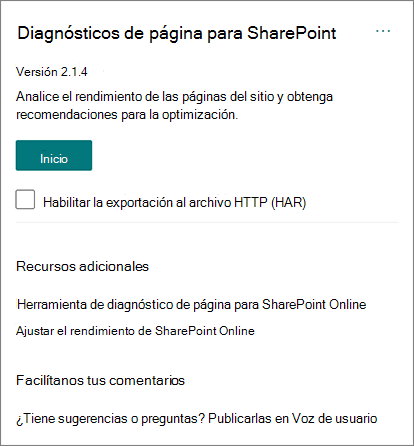
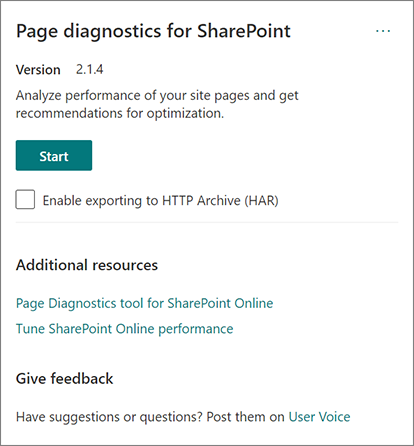
commit translated contents

diff --git a/microsoft-365/compliance/archive-android-archiver-data.md b/microsoft-365/compliance/archive-android-archiver-data.md
@@ -12,16 +12,16 @@ ms.service: O365-seccomp
 localization_priority: Normal
 ms.collection: M365-security-compliance
 description: Los administradores pueden configurar un conector de TeleMessage para importar y archivar SMS, MMS y llamadas de voz desde teléfonos móviles Android. Esto le permite archivar datos de orígenes de datos de terceros en Microsoft 365 para que pueda usar características de cumplimiento como retención legal, búsqueda de contenido y directivas de retención para administrar los datos de terceros de su organización.
-ms.openlocfilehash: 6a70d57c5728b5e69df09a523f865d7e8beb8130
-ms.sourcegitcommit: 50908a93554290ff1157b58d0a868a33e012513c
+ms.openlocfilehash: 6ef42c5e5fe1fe42ca88c1f464ee5321d1560a21679f933bc23ce4026b0605d2
+ms.sourcegitcommit: a1b66e1e80c25d14d67a9b46c79ec7245d88e045
 ms.translationtype: MT
 ms.contentlocale: es-ES
-ms.lasthandoff: 06/08/2021
-ms.locfileid: "52822231"
+ms.lasthandoff: 08/05/2021
+ms.locfileid: "53866761"
 ---
 # <a name="set-up-a-connector-to-archive-android-mobile-data"></a>Configurar un conector para archivar datos móviles de Android
 
-Use un conector de TeleMessage en el centro de cumplimiento de Microsoft 365 para importar y archivar archivos de SMS, MMS, llamadas de voz y registros de llamadas desde teléfonos móviles Android. Después de configurar y configurar un conector, se conecta a la cuenta de TeleMessage de la organización una vez al día e importa la comunicación móvil de los empleados con el Archivador Android de TeleMessage a los buzones de correo de Microsoft 365.
+Use un conector de TeleMessage en el Centro de cumplimiento de Microsoft 365 para importar y archivar SMS, MMS, llamadas de voz y registros de llamadas desde teléfonos móviles Android. Después de configurar y configurar un conector, se conecta a la cuenta de TeleMessage de la organización una vez al día e importa la comunicación móvil de los empleados con el Archivador Android de TeleMessage a los buzones de correo de Microsoft 365.
 
 Una vez que los datos de los teléfonos móviles Android se almacenan en buzones de usuario, puede aplicar Microsoft 365 características de cumplimiento como retención por juicio, búsqueda de contenido y directivas de retención Microsoft 365 a los datos del archivador android. Por ejemplo, puede buscar en la comunicación móvil de Archiver android mediante la búsqueda de contenido o asociar el buzón que contiene los datos del conector del archivador android con un custodio en Advanced eDiscovery caso. El uso de un conector de archivador de Android para importar y archivar datos en Microsoft 365 puede ayudar a su organización a cumplir con las directivas gubernamentales y reglamentarias.
 
@@ -33,9 +33,9 @@ En la siguiente introducción se explica el proceso de uso de un conector para a
 
 1. Su organización trabaja con TeleMessage para configurar un conector de archivador de Android. Para obtener más información, consulta [Archivador de Android](https://www.telemessage.com/office365-activation-for-android-archiver/).
 
-2. En tiempo real, SMS, MMS, llamadas de voz y registros de llamadas desde los teléfonos móviles Android de la organización se copian en el sitio de TeleMessage.
+2. En tiempo real, sms, MMS, llamadas de voz y registros de llamadas desde los teléfonos móviles Android de la organización se copian en el sitio de TeleMessage.
 
-3. El conector de Archivador de Android que crea en el centro de cumplimiento de Microsoft 365 se conecta al sitio de TeleMessage todos los días y transfiere los datos de Android de las 24 horas anteriores a una ubicación Azure Storage segura en la nube de Microsoft. El conector también convierte los datos de Android a un formato de mensaje de correo electrónico.
+3. El conector de Archivador de Android que cree en el Centro de cumplimiento de Microsoft 365 se conecta al sitio de TeleMessage todos los días y transfiere los datos de Android de las 24 horas anteriores a una ubicación Azure Storage segura en la nube de Microsoft. El conector también convierte los datos de Android a un formato de mensaje de correo electrónico.
 
 4. El conector importa los elementos de comunicación móvil al buzón de un usuario específico. Se crea una nueva carpeta denominada Archivador de Android en el buzón del usuario específico y los elementos se importan a él. El conector realiza la asignación mediante el valor de la *propiedad Dirección de correo* electrónico del usuario. Cada mensaje de correo electrónico contiene esta propiedad, que se rellena con la dirección de correo electrónico de cada participante del mensaje de correo electrónico. Además de la asignación automática  de usuarios mediante el valor de la propiedad Dirección de correo electrónico del usuario, también puede definir una asignación personalizada cargando un archivo de asignación CSV. Este archivo de asignación debe contener el número de teléfono móvil y la dirección Microsoft 365 buzón de correo correspondiente para cada usuario. Si habilita la asignación automática de usuarios y proporciona una asignación personalizada, por cada elemento de correo electrónico, el conector primero buscará el archivo de asignación personalizado. Si no encuentra un usuario Microsoft 365 válido que corresponda al número de móvil de un usuario, el conector usará la propiedad de dirección de correo electrónico del usuario del elemento de correo electrónico. Si el conector no encuentra un usuario Microsoft 365 válido en el archivo de asignación personalizado o en la propiedad *de* dirección de correo electrónico del usuario del elemento de correo electrónico, el elemento no se importará.
 
@@ -49,13 +49,13 @@ Algunos de los pasos de implementación necesarios para archivar datos de comuni
 
 - Instala y activa la aplicación Archiver Android de TeleMessage en los teléfonos móviles de tus empleados.
 
-- Al usuario que crea un conector de archivador de Android se le debe asignar el rol De importación de buzones de Exchange Online. Esto es necesario para agregar conectores en la **página Conectores de datos** del centro de Microsoft 365 cumplimiento. Este rol no está asignado a ningún grupo de roles de Exchange Online de forma predeterminada. Puede agregar el rol Exportación de importación de buzones al grupo de roles Administración de la organización en Exchange Online. O bien, puede crear un grupo de roles, asignar el rol Importación de buzones de correo Exportar y, a continuación, agregar los usuarios adecuados como miembros. Para obtener más información, vea [](/Exchange/permissions-exo/role-groups#modify-role-groups) las secciones [Crear](/Exchange/permissions-exo/role-groups#create-role-groups) grupos de roles o Modificar grupos de roles en el artículo "Administrar grupos de roles en Exchange Online".
+- Al usuario que crea un conector de archivador de Android se le debe asignar el rol De importación de buzones de Exchange Online. Esto es necesario para agregar conectores en la **página Conectores de datos** de la Centro de cumplimiento de Microsoft 365. Este rol no está asignado a ningún grupo de roles de Exchange Online de forma predeterminada. Puede agregar el rol Exportación de importación de buzones al grupo de roles Administración de la organización en Exchange Online. O bien, puede crear un grupo de roles, asignar el rol Importación de buzones de correo Exportar y, a continuación, agregar los usuarios adecuados como miembros. Para obtener más información, vea [](/Exchange/permissions-exo/role-groups#modify-role-groups) las secciones [Crear](/Exchange/permissions-exo/role-groups#create-role-groups) grupos de roles o Modificar grupos de roles en el artículo "Administrar grupos de roles en Exchange Online".
 
 - Este conector de datos está disponible en GCC entornos en la Microsoft 365 us government cloud. Las aplicaciones y servicios de terceros pueden implicar almacenar, transmitir y procesar los datos de clientes de su organización en sistemas de terceros que están fuera de la infraestructura de Microsoft 365 y, por lo tanto, no están cubiertos por los compromisos de cumplimiento y protección de datos de Microsoft 365. Microsoft no hace ninguna representación de que el uso de este producto para conectarse a aplicaciones de terceros implica que esas aplicaciones de terceros son compatibles con FEDRAMP.
 
 ## <a name="create-an-android-archiver-connector"></a>Crear un conector de archivador de Android
 
-El último paso es crear un conector de Archivador de Android en el centro de Microsoft 365 cumplimiento. El conector usa la información que proporciona para conectarse al sitio de TeleMessage y transferir la comunicación de Android a los cuadros de buzón de usuario correspondientes en Microsoft 365.
+El último paso es crear un conector de archivador de Android en el Centro de cumplimiento de Microsoft 365. El conector usa la información que proporciona para conectarse al sitio de TeleMessage y transferir la comunicación de Android a los cuadros de buzón de usuario correspondientes en Microsoft 365.
 
 1. Vaya a [https://compliance.microsoft.com](https://compliance.microsoft.com) y haga clic en **Conectores de datos** archivo  >  **android**.
 

diff --git a/microsoft-365/enterprise/microsoft-365-vpn-implement-split-tunnel.md b/microsoft-365/enterprise/microsoft-365-vpn-implement-split-tunnel.md
@@ -17,12 +17,12 @@ ms.collection:
 f1.keywords:
 - NOCSH
 description: Cómo implementar el túnel dividido VPN para Office 365
-ms.openlocfilehash: 2ec4cd8b3730c93a6de30e59087beaff788992dd
-ms.sourcegitcommit: a84a7a9bda2b616a24af03b89a84f5e75ebfc0c7
+ms.openlocfilehash: 8334433cd166b01ba297f79b6a142248eacffe4021bae14edafeae6803d93fc2
+ms.sourcegitcommit: a1b66e1e80c25d14d67a9b46c79ec7245d88e045
 ms.translationtype: MT
 ms.contentlocale: es-ES
-ms.lasthandoff: 07/24/2021
-ms.locfileid: "53578594"
+ms.lasthandoff: 08/05/2021
+ms.locfileid: "53878825"
 ---
 # <a name="implementing-vpn-split-tunneling-for-office-365"></a>Implementación del túnel dividido de VPN para Office 365
 
@@ -51,7 +51,7 @@ La estrategia recomendada por Microsoft para optimizar la conectividad de los tr
 
 En la lista que aparece a continuación se muestran los escenarios de VPN más comunes que se ven en los entornos empresariales. La mayoría de los clientes utiliza el modelo 1 de forma tradicional (túnel forzado de VPN). Esta sección le ayudará a realizar una transición rápida y segura al modelo **2,** que se puede lograr con relativamente poco esfuerzo y tiene enormes ventajas para el rendimiento de la red y la experiencia del usuario.
 
-| Model | Descripción |
+| Model | Description |
 | --- | --- |
 | [1. Túnel forzado de VPN](#1-vpn-forced-tunnel) | El 100 % del tráfico entra en el túnel VPN, incluidos los entornos locales, Internet y todo O365/M365 |
 | [2. Túnel forzado de VPN con unas pocas excepciones](#2-vpn-forced-tunnel-with-a-small-number-of-trusted-exceptions) | El túnel de VPN se usa de forma predeterminada (la ruta predeterminada apunta a la VPN), con pocos escenarios de exención especialmente importantes que se pueden dirigir directamente |

diff --git a/microsoft-365/compliance/advanced-ediscovery-dashboard.md b/microsoft-365/compliance/advanced-ediscovery-dashboard.md
@@ -16,12 +16,12 @@ search.appverid:
 - MET150
 ms.assetid: ''
 description: Use el panel Advanced eDiscovery para conjuntos de revisión para analizar rápidamente su corpus para identificar tendencias o estadísticas clave que le ayudarán a desarrollar su estrategia de revisión.
-ms.openlocfilehash: 36f30689047eec7ff2c2c49c6b0d54f1a60470e4
-ms.sourcegitcommit: 956dd3f87adb4e6173517550a662c3bacc2d2d79
+ms.openlocfilehash: 2128f2b2caa719cf2fc9b966ff70e1cfc74a1852896a10c85a17c407ffdddfea
+ms.sourcegitcommit: a1b66e1e80c25d14d67a9b46c79ec7245d88e045
 ms.translationtype: MT
 ms.contentlocale: es-ES
-ms.lasthandoff: 06/16/2020
-ms.locfileid: "44741697"
+ms.lasthandoff: 08/05/2021
+ms.locfileid: "53836536"
 ---
 # <a name="advanced-ediscovery-dashboard-for-review-sets"></a>Advanced eDiscovery panel para conjuntos de revisión
 
@@ -77,7 +77,7 @@ En algunos casos Advanced eDiscovery, es posible que tenga un gran volumen de do
 
 4. Cuando haya terminado, haga clic en **Guardar como** consulta para guardar las condiciones como una nueva consulta de búsqueda para el conjunto de revisión.
 
-   ![Consulta](../media/savequery.png)
+   ![Query](../media/savequery.png)
 
 5. Cierre la **vista Perfil de búsqueda** para volver a la vista de resultados de búsqueda.
 

diff --git a/microsoft-365/enterprise/modern-web-part-optimization.md b/microsoft-365/enterprise/modern-web-part-optimization.md
@@ -21,12 +21,12 @@ ms.reviewer: sstewart
 search.appverid:
 - MET150
 description: Obtenga información sobre cómo usar diagnósticos de página para optimizar el rendimiento de los elementos web en SharePoint páginas de sitio modernas en línea.
-ms.openlocfilehash: fab5b0bc9d0b04ede0815856af7366e277dbf909
-ms.sourcegitcommit: 4886457c0d4248407bddec56425dba50bb60d9c4
+ms.openlocfilehash: bfa508840045d9222798254e02e1363ea5b480829605f82e3cbd211846dc9d3d
+ms.sourcegitcommit: a1b66e1e80c25d14d67a9b46c79ec7245d88e045
 ms.translationtype: MT
 ms.contentlocale: es-ES
-ms.lasthandoff: 07/03/2021
-ms.locfileid: "53288904"
+ms.lasthandoff: 08/05/2021
+ms.locfileid: "53878725"
 ---
 # <a name="optimize-web-part-performance-in-sharepoint-online-modern-site-pages"></a>Optimizar el rendimiento de elementos web en páginas del sitio modernas de SharePoint Online
 

diff --git a/microsoft-365/enterprise/managing-expressroute-for-connectivity.md b/microsoft-365/enterprise/managing-expressroute-for-connectivity.md
@@ -19,12 +19,12 @@ search.appverid:
 - BCS160
 ms.assetid: e4468915-15e1-4530-9361-cd18ce82e231
 description: Obtenga información sobre cómo administrar ExpressRoute para Office 365, incluidas las áreas comunes para configurar el filtrado de prefijos, la seguridad y el cumplimiento.
-ms.openlocfilehash: e8de0763df7d592bc41802b1ead48df06891e6dc
-ms.sourcegitcommit: 27b2b2e5c41934b918cac2c171556c45e36661bf
+ms.openlocfilehash: bb6f2a4f0c6c8d2d00fc8f8dcf05e33399f4f8a1695f03402a53d07cf329dc5c
+ms.sourcegitcommit: a1b66e1e80c25d14d67a9b46c79ec7245d88e045
 ms.translationtype: MT
 ms.contentlocale: es-ES
-ms.lasthandoff: 03/19/2021
-ms.locfileid: "50916673"
+ms.lasthandoff: 08/05/2021
+ms.locfileid: "53878786"
 ---
 # <a name="managing-expressroute-for-office-365-connectivity"></a>Administración de la conectividad de ExpressRoute para Office 365
 

diff --git a/microsoft-365/enterprise/page-diagnostics-for-spo.md b/microsoft-365/enterprise/page-diagnostics-for-spo.md
@@ -19,12 +19,12 @@ search.appverid:
 f1.keywords:
 - NOCSH
 description: Use la herramienta Diagnóstico de página para SharePoint para analizar SharePoint portal moderno en línea y páginas de publicación clásicas con un conjunto predefinido de criterios de rendimiento.
-ms.openlocfilehash: b55e5c04f56bac4e6313284de60753d1beaaaed1
-ms.sourcegitcommit: 27b2b2e5c41934b918cac2c171556c45e36661bf
+ms.openlocfilehash: 742c55fcdcb527b3544650918d2e404045318619abba7df79f736dead31d07ca
+ms.sourcegitcommit: a1b66e1e80c25d14d67a9b46c79ec7245d88e045
 ms.translationtype: MT
 ms.contentlocale: es-ES
-ms.lasthandoff: 03/19/2021
-ms.locfileid: "50921635"
+ms.lasthandoff: 08/05/2021
+ms.locfileid: "53878416"
 ---
 # <a name="use-the-page-diagnostics-for-sharepoint-tool"></a>Usar la herramienta Diagnóstico de página SharePoint página
 

diff --git a/microsoft-365/contentunderstanding/solution-manage-contracts-step3.md b/microsoft-365/contentunderstanding/solution-manage-contracts-step3.md
@@ -12,12 +12,12 @@ search.appverid: ''
 localization_priority: None
 ROBOTS: ''
 description: Obtenga información sobre cómo usar Power Automate para crear el flujo para procesar los contratos mediante una Microsoft 365 solución.
-ms.openlocfilehash: e6c1d1e53363f996241efb2394189853d840c6c2
-ms.sourcegitcommit: fa9efab24a84f71fec7d001f2ad8949125fa8eee
+ms.openlocfilehash: ddf9df71c53af9f3a68dcbfd9a5b1882b67c4fbd4600e89ecec36e283848ac3e
+ms.sourcegitcommit: a1b66e1e80c25d14d67a9b46c79ec7245d88e045
 ms.translationtype: MT
 ms.contentlocale: es-ES
-ms.lasthandoff: 06/22/2021
-ms.locfileid: "53054464"
+ms.lasthandoff: 08/05/2021
+ms.locfileid: "53859363"
 ---
 # <a name="step-3-use-power-automate-to-create-your-flow-to-process-your-contracts"></a>Paso 3. Usar Power Automate para crear el flujo para procesar los contratos
 

diff --git a/microsoft-365/enterprise/microsoft-365-powershell-community-resources.md b/microsoft-365/enterprise/microsoft-365-powershell-community-resources.md
@@ -16,12 +16,12 @@ ms.custom:
 - seo-marvel-apr2020
 ms.assetid: ebe0f5ff-fd17-487f-bbb6-271b5ea270bb
 description: En este artículo se proporcionan recursos de la comunidad para conectarse a sus compañeros y obtener ayuda para PowerShell para Microsoft 365.
-ms.openlocfilehash: 36130d3e0f32f73836698cfb276e2aca5d20de83
-ms.sourcegitcommit: 66b8fc1d8ba4f17487cd2004ac19cf2fff472f3d
+ms.openlocfilehash: 5d8db669febadf41cb3d334058eeb189f3d102533d62d1a469e76c92d8b6941b
+ms.sourcegitcommit: a1b66e1e80c25d14d67a9b46c79ec7245d88e045
 ms.translationtype: MT
 ms.contentlocale: es-ES
-ms.lasthandoff: 10/24/2020
-ms.locfileid: "48754697"
+ms.lasthandoff: 08/05/2021
+ms.locfileid: "53878764"
 ---
 # <a name="microsoft-365-community-resources-for-powershell"></a>Recursos de la comunidad de Microsoft 365 para PowerShell
 

diff --git a/microsoft-365/contentunderstanding/apply-a-sensitivity-label-to-a-model.md b/microsoft-365/contentunderstanding/apply-a-sensitivity-label-to-a-model.md
@@ -13,12 +13,12 @@ ms.collection:
 - m365initiative-syntex
 localization_priority: Priority
 description: Obtenga información sobre cómo aplicar una etiqueta de confidencialidad a un modelo en SharePoint Syntex.
-ms.openlocfilehash: 2e6fc51db228ac4beb7171047478b0132c1194f5
-ms.sourcegitcommit: 60cc1b2828b1e191f30ca439b97e5a38f48c5169
+ms.openlocfilehash: 82aba67c76e971bc8c87943ab798e6f8173e4ef207af2c913c58fcf10a29b272
+ms.sourcegitcommit: a1b66e1e80c25d14d67a9b46c79ec7245d88e045
 ms.translationtype: HT
 ms.contentlocale: es-ES
-ms.lasthandoff: 07/23/2021
-ms.locfileid: "53543178"
+ms.lasthandoff: 08/05/2021
+ms.locfileid: "53859436"
 ---
 # <a name="apply-a-sensitivity-label-to-a-model-in-microsoft-sharepoint-syntex"></a>Aplicar una etiqueta de confidencialidad a un modelo en Microsoft SharePoint Syntex
 

diff --git a/microsoft-365/commerce/pay/democratic-republic-of-congo.md b/microsoft-365/commerce/pay/democratic-republic-of-congo.md
@@ -13,12 +13,12 @@ ms.custom: commerce_billing_payinfo
 localization_priority: Normal
 description: Obtenga información sobre dónde enviar el pago de la suscripción.
 ROBOTS: NOINDEX, NOFOLLOW
-ms.openlocfilehash: 367eae14bd2ecd17efa8197268890322ae3d2422
-ms.sourcegitcommit: f780de91bc00caeb1598781e0076106c76234bad
+ms.openlocfilehash: 99c19b4f9aa5532e93c8415a423cada17951f84583e7cd1f65482cccd504e733
+ms.sourcegitcommit: a1b66e1e80c25d14d67a9b46c79ec7245d88e045
 ms.translationtype: MT
 ms.contentlocale: es-ES
-ms.lasthandoff: 05/19/2021
-ms.locfileid: "52536867"
+ms.lasthandoff: 08/05/2021
+ms.locfileid: "53887276"
 ---
 # <a name="payment-information-for-democratic-republic-of-congo"></a>Información de pago para república democrática del Congo
 

diff --git a/microsoft-365/commerce/pay/saint-kitts-and-nevis.md b/microsoft-365/commerce/pay/saint-kitts-and-nevis.md
@@ -13,12 +13,12 @@ ms.custom: commerce_billing_payinfo
 localization_priority: Normal
 description: Obtenga información sobre dónde enviar el pago de la suscripción.
 ROBOTS: NOINDEX, NOFOLLOW
-ms.openlocfilehash: 3077ee6e346c3162a333572a2f40278ce964890c
-ms.sourcegitcommit: f780de91bc00caeb1598781e0076106c76234bad
+ms.openlocfilehash: 325401cfd25f4f4a63d23f9f42df07d01f813b8aa091bbfe0962ffdf1357a30e
+ms.sourcegitcommit: a1b66e1e80c25d14d67a9b46c79ec7245d88e045
 ms.translationtype: MT
 ms.contentlocale: es-ES
-ms.lasthandoff: 05/19/2021
-ms.locfileid: "52535235"
+ms.lasthandoff: 08/05/2021
+ms.locfileid: "53866792"
 ---
 # <a name="payment-information-for-saint-kitts-and-nevis"></a>Información de pago para Saint Kitts y Nevis
 

diff --git a/microsoft-365/commerce/pay/cayman-islands.md b/microsoft-365/commerce/pay/cayman-islands.md
@@ -13,12 +13,12 @@ ms.custom: commerce_billing_payinfo
 localization_priority: Normal
 description: Obtenga información sobre dónde enviar el pago de la suscripción.
 ROBOTS: NOINDEX, NOFOLLOW
-ms.openlocfilehash: a6fe01ddb5d601ffe75a22a408ea1241e67d402a
-ms.sourcegitcommit: f780de91bc00caeb1598781e0076106c76234bad
+ms.openlocfilehash: 51fe0507a209d8f51c386a0515392f38bae841d417810f0b2c89ea7cf7726cc7
+ms.sourcegitcommit: a1b66e1e80c25d14d67a9b46c79ec7245d88e045
 ms.translationtype: MT
 ms.contentlocale: es-ES
-ms.lasthandoff: 05/19/2021
-ms.locfileid: "52536987"
+ms.lasthandoff: 08/05/2021
+ms.locfileid: "53887312"
 ---
 # <a name="payment-information-for-cayman-islands"></a>Información de pago para Islas Caimán
 
